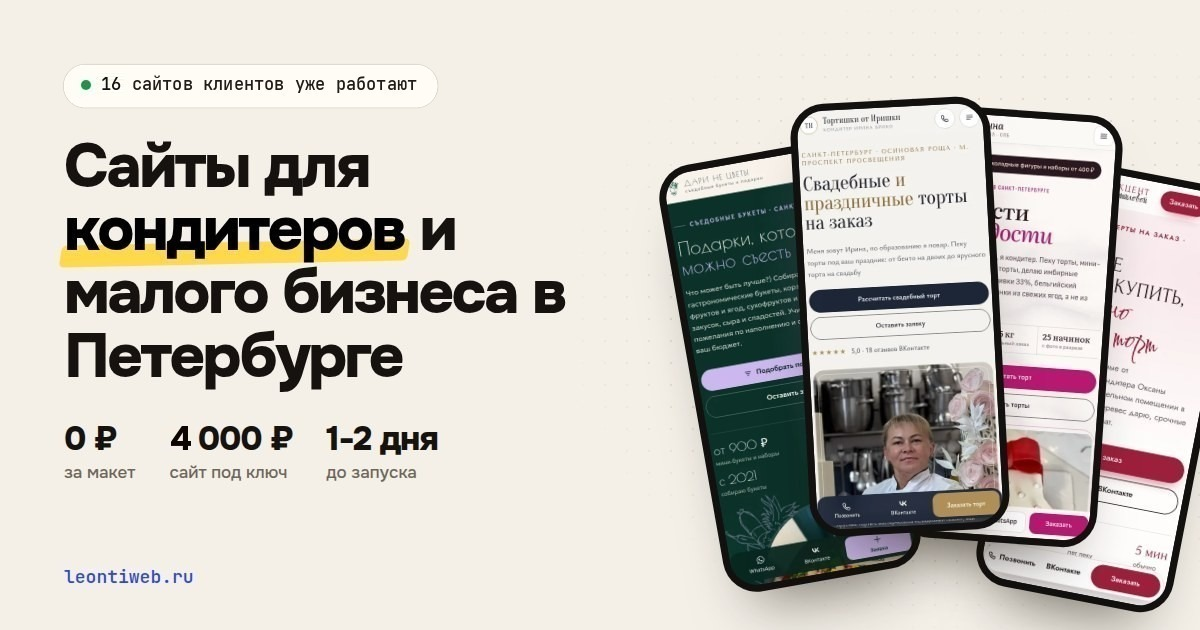
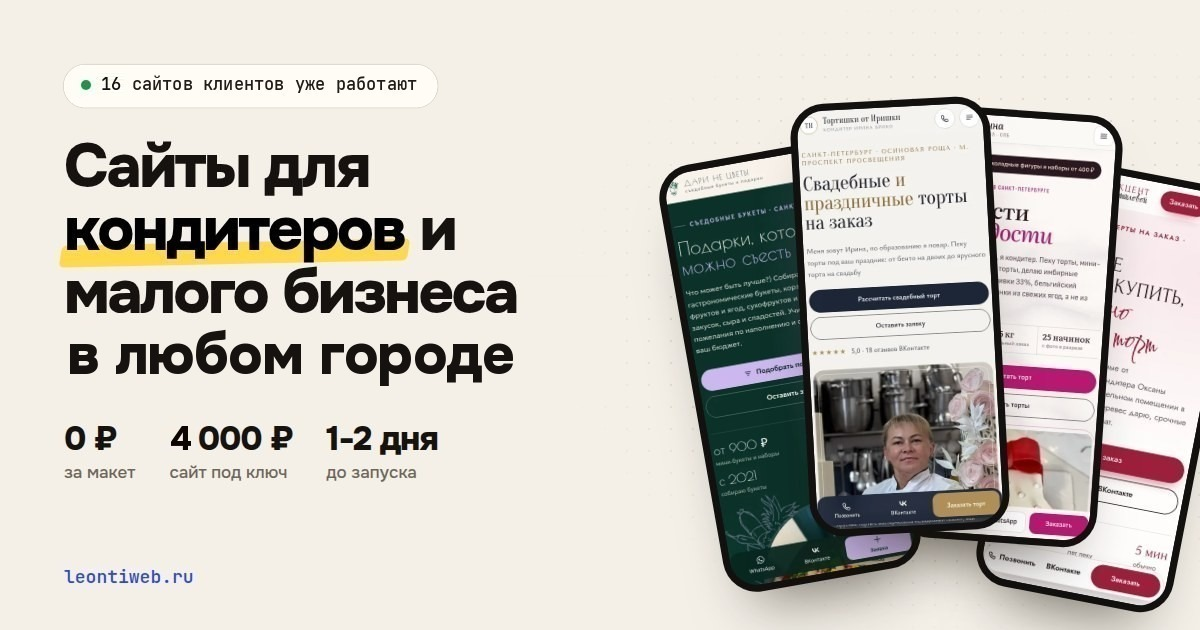
Portfolio: work with any city, not only SPb

Changed region(s): [[0.0617, 0.5127, 0.4317, 0.6333], [0.4317, 0.4222, 0.4933, 0.5127]]

diff --git a/index.html b/index.html
@@ -3,12 +3,12 @@
 <head>
 <meta charset="utf-8">
 <meta name="viewport" content="width=device-width, initial-scale=1">
-<title>Леонтий Наумов: сайты для кондитеров и малого бизнеса в Петербурге</title>
-<meta name="description" content="Сайты для кондитеров и малого бизнеса в Санкт-Петербурге. Бесплатный макет на ваших фото, сайт под ключ за 4 000 ₽ со своим доменом и заявками во ВКонтакте. Оплата после запуска.">
+<title>Леонтий Наумов: сайты для кондитеров и малого бизнеса в любом городе</title>
+<meta name="description" content="Сайты для кондитеров и малого бизнеса в любом городе России, работаю удалённо. Бесплатный макет на ваших фото, сайт под ключ за 4 000 ₽ со своим доменом и заявками во ВКонтакте. Оплата после запуска.">
 <link rel="canonical" href="https://leontiweb.ru/">
 <meta property="og:type" content="website">
 <meta property="og:url" content="https://leontiweb.ru/">
-<meta property="og:title" content="Сайты для кондитеров и малого бизнеса в Петербурге">
+<meta property="og:title" content="Сайты для кондитеров и малого бизнеса в любом городе">
 <meta property="og:description" content="Бесплатный макет на ваших фото. Сайт под ключ за 4 000 ₽, оплата после запуска. 16 сайтов клиентов уже работают.">
 <meta property="og:image" content="https://leontiweb.ru/img/og.jpg">
 <meta property="og:image:width" content="1200">
@@ -35,7 +35,7 @@
 </script>
 <noscript><div><img src="https://mc.yandex.ru/watch/114129348" style="position:absolute; left:-9999px;" alt="" /></div></noscript>
 <!-- /Yandex.Metrika counter -->
-<script type="application/ld+json">{"@context":"https://schema.org","@type":"ProfessionalService","name":"Леонтий Наумов, сайты для малого бизнеса","url":"https://leontiweb.ru/","image":"https://leontiweb.ru/img/og.jpg","telephone":"+79119496835","areaServed":"Санкт-Петербург","priceRange":"от 4 000 ₽","sameAs":["https://vk.ru/club242798044","https://vk.com/ileonti","https://kwork.ru/user/leontiq"]}</script>
+<script type="application/ld+json">{"@context":"https://schema.org","@type":"ProfessionalService","name":"Леонтий Наумов, сайты для малого бизнеса","url":"https://leontiweb.ru/","image":"https://leontiweb.ru/img/og.jpg","telephone":"+79119496835","areaServed":"Россия","priceRange":"от 4 000 ₽","sameAs":["https://vk.ru/club242798044","https://vk.com/ileonti","https://kwork.ru/user/leontiq"]}</script>
 <style>
   :root{
     --paper:#F4F0E8;--paper2:#EBE5D9;--card:#FFFCF7;--ink:#15120F;--ink2:#2E2924;--muted:#6E665B;--line:#DED6C8;
@@ -388,8 +388,8 @@
   <div class="w hero-grid">
     <div>
       <p class="live"><span class="dot"></span>Сейчас работают 16 сайтов клиентов</p>
-      <h1>Сайты для <mark>кондитеров</mark> и&nbsp;малого бизнеса в&nbsp;Петербурге</h1>
-      <p class="lead">Сначала соберу бесплатный макет на ваших фото и ценах. Понравится, запущу сайт на вашем домене, и только потом вы платите.</p>
+      <h1>Сайты для <mark>кондитеров</mark> и&nbsp;малого бизнеса в&nbsp;любом городе</h1>
+      <p class="lead">Сначала соберу бесплатный макет на ваших фото и ценах. Понравится, запущу сайт на вашем домене, и только потом вы платите. Работаю удалённо с любым городом: всё общение во ВКонтакте или мессенджере.</p>
       <div class="acts">
         <a class="btn btn-acc" href="#start">Получить бесплатный макет</a>
         <a class="btn btn-ghost" href="#works">Смотреть работы</a>
@@ -931,7 +931,7 @@
 
 <footer class="foot">
   <div class="w foot-grid">
-    <p>© 2026 Леонтий Наумов. Сайты для малого бизнеса в Петербурге</p>
+    <p>© 2026 Леонтий Наумов. Сайты для малого бизнеса в любом городе</p>
     <nav aria-label="Ссылки"><a href="https://vk.ru/club242798044" target="_blank" rel="noopener">Группа ВКонтакте</a><a href="https://kwork.ru/user/leontiq" target="_blank" rel="noopener">Kwork</a><a href="privacy.html">Политика обработки данных</a></nav>
   </div>
 </footer>

diff --git a/raboty/index.html b/raboty/index.html
@@ -3,8 +3,8 @@
 <head>
 <meta charset="utf-8">
 <meta name="viewport" content="width=device-width, initial-scale=1">
-<title>Леонтий Наумов: сайты для кондитеров и малого бизнеса в Петербурге</title>
-<meta name="description" content="Сайты для кондитеров и малого бизнеса в Санкт-Петербурге. Бесплатный макет на ваших фото, сайт под ключ за 4 000 ₽ со своим доменом и заявками во ВКонтакте. Оплата после запуска.">
+<title>Леонтий Наумов: сайты для кондитеров и малого бизнеса в любом городе</title>
+<meta name="description" content="Сайты для кондитеров и малого бизнеса в любом городе России, работаю удалённо. Бесплатный макет на ваших фото, сайт под ключ за 4 000 ₽ со своим доменом и заявками во ВКонтакте. Оплата после запуска.">
 <meta name="robots" content="noindex">
 <!-- Short link for VK outreach: opens the home page with UTM tags so Metrica counts these visits separately.
      no-referrer keeps the same-site hop out of the stats. -->
@@ -12,7 +12,7 @@
 <link rel="canonical" href="https://leontiweb.ru/">
 <meta property="og:type" content="website">
 <meta property="og:url" content="https://leontiweb.ru/">
-<meta property="og:title" content="Сайты для кондитеров и малого бизнеса в Петербурге">
+<meta property="og:title" content="Сайты для кондитеров и малого бизнеса в любом городе">
 <meta property="og:description" content="Бесплатный макет на ваших фото. Сайт под ключ за 4 000 ₽, оплата после запуска. 16 сайтов клиентов уже работают.">
 <meta property="og:image" content="https://leontiweb.ru/img/og.jpg">
 <meta property="og:image:width" content="1200">

diff --git a/privacy.html b/privacy.html
@@ -9,7 +9,7 @@
 </head>
 <body>
 <h1>Политика обработки персональных данных</h1>
-<p>Сайт принадлежит Леонтию Наумову, который делает сайты для малого бизнеса в Санкт-Петербурге.</p>
+<p>Сайт принадлежит Леонтию Наумову, который делает сайты для малого бизнеса (работает удалённо, с любым городом).</p>
 <p>Какие данные собираем: имя, телефон, ссылку на вашу группу или магазин и то, что вы написали в комментарии к заявке.</p>
 <p>Зачем: чтобы ответить на заявку, собрать для вас макет сайта и обсудить работу.</p>
 <p>Как обрабатываем: заявка передаётся в сообщения ВКонтакте через сервис Google Apps Script. Данные не передаём третьим лицам и не используем для рекламы.</p>
